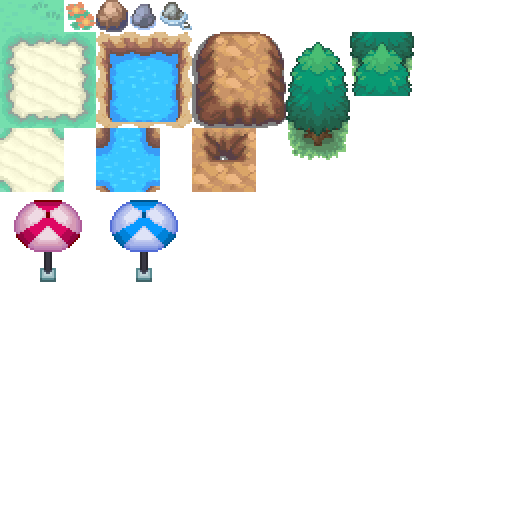
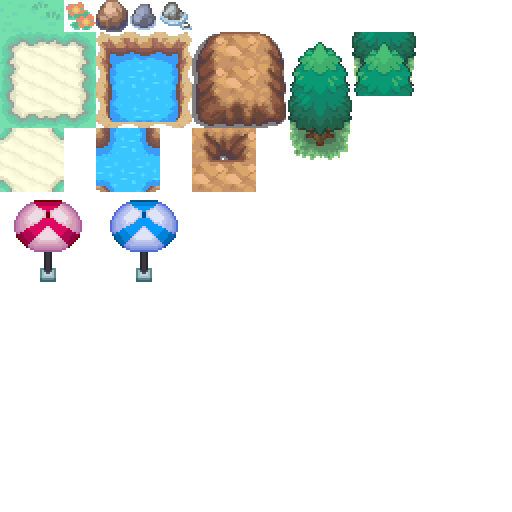
Barre de menu
Ajout du menu
Ajout des icones pour les couches et leur fonctionnement
Fix des tiles

Changed region(s): [[0.5625, 0.0625, 0.8125, 0.3125]]

diff --git a/src/main/java/fr/leveleditor/LevelEditor.java b/src/main/java/fr/leveleditor/LevelEditor.java
@@ -13,6 +13,9 @@ import fr.leveleditor.graphic.Texture;
 import fr.leveleditor.input.CursorManager;
 import fr.leveleditor.input.MouseManager;
 import fr.leveleditor.level.Level;
+import fr.leveleditor.menu.Menu;
+import fr.leveleditor.menu.MenuCallback;
+import fr.leveleditor.menu.MenuItem;
 import fr.leveleditor.utils.Logger;
 import fr.leveleditor.utils.Window;
 
@@ -30,6 +33,7 @@ public class LevelEditor {
 	
 	private boolean running = false;
 	private Level level;
+	private Menu menu;
 	
 	private int[] selectedTile = {0, 0};
 	private int[] overTile = {0, 0};
@@ -48,7 +52,7 @@ public class LevelEditor {
 		glfwWindowHint(GLFW_VISIBLE, GLFW_TRUE);
 		
 		
-		long id = glfwCreateWindow(width, height, title + " | Couche : 1", 0, 0);
+		long id = glfwCreateWindow(width, height, title, 0, 0);
 		Window.list.add(new Window(id, width, height));
 		id = glfwCreateWindow(width / 2, height / 2, "TileSet", 0, id);
 		Window.list.add(new Window(id, width / 2, height / 2));
@@ -82,6 +86,31 @@ public class LevelEditor {
 		}
 		
 		level = Level.load("current");
+		menu = new Menu("Barr Menu", 32);
+		menu.add(new MenuItem(32, Texture.menu, 0, 0, new MenuCallback() {
+			public void callback() {
+				activeLayer = 0;
+			}
+		}));
+		
+		menu.add(new MenuItem(32, Texture.menu, 1, 0, new MenuCallback() {
+			public void callback() {
+				activeLayer = 1;
+			}
+		}));
+		
+		menu.add(new MenuItem(32, Texture.menu, 2, 0, new MenuCallback() {
+			public void callback() {
+				activeLayer = 2;
+			}
+		}));
+		
+		menu.add(new MenuItem(32, Texture.menu, 3, 0, new MenuCallback() {
+			public void callback() {
+				activeLayer = 3;
+			}
+		}));
+		
 		
 		running = true;
 		mainLoop();
@@ -95,6 +124,7 @@ public class LevelEditor {
 		
 		glfwSetWindowSizeCallback(Window.list.get(0).getId(), new GLFWWindowSizeCallback(){
 			public void invoke(long window, int width, int height) {
+				setWidth(width);
 				glfwMakeContextCurrent(window);
 				glViewport(0, 0, width, height);
 				
@@ -116,8 +146,9 @@ public class LevelEditor {
 		});
 		
 		overTile[0] = (int) (CursorManager.posX / scale);
-		overTile[1] = (int) (CursorManager.posY / scale);
+		overTile[1] = (int) ((CursorManager.posY - 32) / scale);
 		
+		menu.update();
 		level.update();
 	}
 	
@@ -142,13 +173,15 @@ public class LevelEditor {
 				
 				glBegin(GL_LINE_LOOP);
 					glColor4f(0, 0, 0, 1);
-					glVertex2f(overTile[0] * scale, overTile[1] * scale + 1);
-					glVertex2f((overTile[0] + 1) * scale, overTile[1] * scale + 1);
-					glVertex2f((overTile[0] + 1) * scale, (overTile[1] + 1) * scale);
-					glVertex2f(overTile[0] * scale + 1, (overTile[1] + 1) * scale);
-					glVertex2f(overTile[0] * scale + 1, overTile[1] * scale + 1);
+					glVertex2f(overTile[0] * scale, 32 + overTile[1] * scale + 1);
+					glVertex2f((overTile[0] + 1) * scale, 32 + overTile[1] * scale + 1);
+					glVertex2f((overTile[0] + 1) * scale, 32 + (overTile[1] + 1) * scale);
+					glVertex2f(overTile[0] * scale, 32 + (overTile[1] + 1) * scale);
+					glVertex2f(overTile[0] * scale, 32 + overTile[1] * scale + 1);
 					glColor4f(1, 1, 1, 1);
 				glEnd();
+				
+				menu.render();
 			}
 			else {
 				Texture.tiles.bind();
@@ -245,17 +278,18 @@ public class LevelEditor {
 		return selectedTile;
 	}
 	
-	public void updateActiveLayer() {
-		if(activeLayer < 2) activeLayer++;
-		else activeLayer = 0;
-		
-    	glfwSetWindowTitle(Window.list.get(0).getId(), title + " | Couche : " + (activeLayer + 1));
-	}
-	
 	public int getActiveLayer() {
 		return activeLayer;
 	}
 	
+	public int getWidth() {
+		return width;
+	}
+
+	public void setWidth(int width) {
+		LevelEditor.width = width;
+	}
+
 	public static void main(String[] args) {
 		new LevelEditor();
 	}

diff --git a/src/main/java/fr/leveleditor/menu/MenuItem.java b/src/main/java/fr/leveleditor/menu/MenuItem.java
@@ -1,0 +1,84 @@
+package fr.leveleditor.menu;
+
+import fr.leveleditor.graphic.Texture;
+import fr.leveleditor.input.CursorManager;
+import fr.leveleditor.input.MouseManager;
+
+import static org.lwjgl.opengl.GL11.*;
+
+import org.lwjgl.glfw.GLFW;
+
+public class MenuItem {
+	private int posX;
+	private int height;
+	private int width;
+	
+	private Texture texture;
+	private float texX;
+	private float texY;
+	
+	private MenuCallback callback;
+	
+	public MenuItem(int width, Texture texture, int texX, int texY, MenuCallback callback) {
+		this.width = width;
+		this.callback = callback;
+		
+		this.texture = texture;
+		this.texX = texX * texture.getTileSize();	
+		this.texY = texY * texture.getTileSize();	
+		
+		this.posX = 0;
+		this.height = 32;
+	}
+	
+	public void render() {
+		texture.bind();
+		glBegin(GL_QUADS);
+			glTexCoord2f(texX, texY);
+			glVertex2i(posX, 0);
+			glTexCoord2f(texX + texture.getTileSize(), texY);
+			glVertex2i(posX + width, 0);
+			glTexCoord2f(texX + texture.getTileSize(), texY + texture.getTileSize());
+			glVertex2i(posX + width, height);
+			glTexCoord2f(texX, texY + texture.getTileSize());
+			glVertex2i(posX, height);
+		glEnd();
+		texture.unbind();
+	}
+	
+	public void update() {
+		if(CursorManager.isInRect(posX, 0, width, height) && MouseManager.isDown(GLFW.GLFW_MOUSE_BUTTON_LEFT)) callback.callback();
+	}
+
+	public int getPosX() {
+		return posX;
+	}
+
+	public void setPosX(int posX) {
+		this.posX = posX;
+	}
+
+	public int getHeight() {
+		return height;
+	}
+
+	public void setHeight(int height) {
+		this.height = height;
+	}
+
+	public int getWidth() {
+		return width;
+	}
+
+	public void setWidth(int width) {
+		this.width = width;
+	}
+
+	public Texture getTexture() {
+		return texture;
+	}
+
+	public void setTexture(Texture texture) {
+		this.texture = texture;
+	}
+}

diff --git a/src/main/java/fr/leveleditor/menu/Menu.java b/src/main/java/fr/leveleditor/menu/Menu.java
@@ -1,0 +1,61 @@
+package fr.leveleditor.menu;
+
+import java.util.ArrayList;
+
+import fr.leveleditor.LevelEditor;
+
+import static org.lwjgl.opengl.GL11.*;
+
+public class Menu {
+	private String name;
+	private ArrayList<MenuItem> items;
+	
+	public Menu(String name, int height) {
+		this.name = name;
+		this.items = new ArrayList<MenuItem>();
+	}
+	
+	public void render() {
+		glBegin(GL_QUADS);
+			glColor3f(0.9f, 0.9f, 0.9f);
+			glVertex2i(0, 0);
+			glVertex2i(LevelEditor.instance.getWidth(), 0);
+			glVertex2i(LevelEditor.instance.getWidth(), 32);
+			glVertex2i(0, 32);
+			glColor3f(1, 1 ,1);
+		glEnd();
+		
+		final int layer = LevelEditor.instance.getActiveLayer();
+		glBegin(GL_LINE_LOOP);
+			glColor3f(0, 0, 0);
+			glVertex2i(10 + layer * 10 + layer * 32, 1);
+			glVertex2i(10 + layer * 10 + layer * 32 + 32, 1);
+			glVertex2i(10 + layer * 10 + layer * 32 + 32, 32);
+			glVertex2i(10 + layer * 10 + layer * 32, 32);
+			glVertex2i(10 + layer * 10 + layer * 32, 1);
+			glColor3f(1, 1, 1);
+		glEnd();
+		
+		for(MenuItem item : items) item.render();
+	}
+	
+	public void update() {		
+		for(MenuItem item : items) item.update();
+	}
+	
+	public void add(MenuItem item) {
+		int posX = 10;
+		for(MenuItem itm : items) posX += itm.getWidth() + 10;
+		
+		item.setPosX(posX);
+		items.add(item);
+	}
+	
+	public void remove(MenuItem item) {
+		items.remove(item);
+	}
+	
+	public String getName() {
+		return name;
+	}
+}

diff --git a/src/main/java/fr/leveleditor/input/MouseManager.java b/src/main/java/fr/leveleditor/input/MouseManager.java
@@ -16,15 +16,14 @@ public class MouseManager extends GLFWMouseButtonCallback {
 		
 		if(button == GLFW_MOUSE_BUTTON_LEFT && action != GLFW_RELEASE) {
 			
-			if(Window.indexFromId(window) == 0) {
-				LevelEditor.instance.getLevel().getTiles()[LevelEditor.instance.getActiveLayer()][(int) CursorManager.posX / (int) LevelEditor.instance.getScale()][(int) CursorManager.posY / (int) LevelEditor.instance.getScale()] = Tile.fromCoord(LevelEditor.instance.getSelectedTile()[0], LevelEditor.instance.getSelectedTile()[1]);
+			if(Window.indexFromId(window) == 0 && CursorManager.posY > 32) {
+				LevelEditor.instance.getLevel().getTiles()[LevelEditor.instance.getActiveLayer()][(int) CursorManager.posX / (int) LevelEditor.instance.getScale()][(int) (CursorManager.posY - 32) / (int) LevelEditor.instance.getScale()] = Tile.fromCoord(LevelEditor.instance.getSelectedTile()[0], LevelEditor.instance.getSelectedTile()[1]);
 			}
 			else if(Window.indexFromId(window) == 1) {
 				LevelEditor.instance.setSelectedTile(new int[]{CursorManager.posX / LevelEditor.instance.getTileRes(), CursorManager.posY / LevelEditor.instance.getTileRes()});
 			}
 		}
 		else if(button == GLFW_MOUSE_BUTTON_RIGHT && action != GLFW_RELEASE) {
-			LevelEditor.instance.updateActiveLayer();
 		}
 	}
 	

diff --git a/src/main/java/fr/leveleditor/level/Tile.java b/src/main/java/fr/leveleditor/level/Tile.java
@@ -112,17 +112,17 @@ public enum Tile {
 		final float size = Texture.tiles.getTileSize();
 		
 		glTexCoord2f(texX, texY);
-		glVertex2f(x * scale, y * scale);
+		glVertex2f(x * scale, 32 + y * scale);
 		glTexCoord2f(texX + size, texY);
-		glVertex2f((x + 1) * scale, y * scale);
+		glVertex2f((x + 1) * scale, 32 + y * scale);
 		glTexCoord2f(texX, texY + size);
-		glVertex2f(x * scale, (y + 1) * scale);
+		glVertex2f(x * scale, 32 + (y + 1) * scale);
 		
 		glTexCoord2f(texX, texY + size);
-		glVertex2f(x * scale, (y + 1) * scale);
+		glVertex2f(x * scale, 32 + (y + 1) * scale);
 		glTexCoord2f(texX + size, texY);
-		glVertex2f((x + 1) * scale, y * scale);
+		glVertex2f((x + 1) * scale, 32 + y * scale);
 		glTexCoord2f(texX + size, texY + size);
-		glVertex2f((x + 1) * scale, (y + 1) * scale);
+		glVertex2f((x + 1) * scale, 32 + (y + 1) * scale);
 	}
 }

diff --git a/src/main/java/fr/leveleditor/level/Level.java b/src/main/java/fr/leveleditor/level/Level.java
@@ -88,14 +88,17 @@ public class Level {
 	}
 	
 	public void render() {
+		final float layer = LevelEditor.instance.getActiveLayer();
 		Texture.tiles.bind();
 		glBegin(GL_TRIANGLES);
-			for(int i = 0; i < LevelEditor.instance.getActiveLayer() + 1; i++) {
+			for(int i = 0; i < (layer < 3 ? layer + 1 : 3); i++) {
+				if(i < layer && layer < 3) glColor3f(0.7f, 0.7f, 0.7f);
 				for(int j = 0; j < sizeX; j++) {
 					for(int k = 0; k < sizeY; k++) {
 						tiles[i][j][k].render(j, k);
 					}
 				}
+				glColor3f(1, 1, 1);
 			}
 		glEnd();
 		Texture.tiles.unbind();

diff --git a/src/main/java/fr/leveleditor/graphic/Texture.java b/src/main/java/fr/leveleditor/graphic/Texture.java
@@ -20,6 +20,7 @@ public class Texture {
 	private float tileSize;
 	
 	public static Texture tiles = Texture.loadTexture("tiles.png");
+	public static Texture menu = Texture.loadTexture("menubarr.png");
 	
 	public Texture(int id, int width, int height) {
 		this.id = id;

diff --git a/src/main/java/fr/leveleditor/menu/MenuCallback.java b/src/main/java/fr/leveleditor/menu/MenuCallback.java
@@ -1,0 +1,5 @@
+package fr.leveleditor.menu;
+
+public interface MenuCallback {
+	public void callback();
+}
